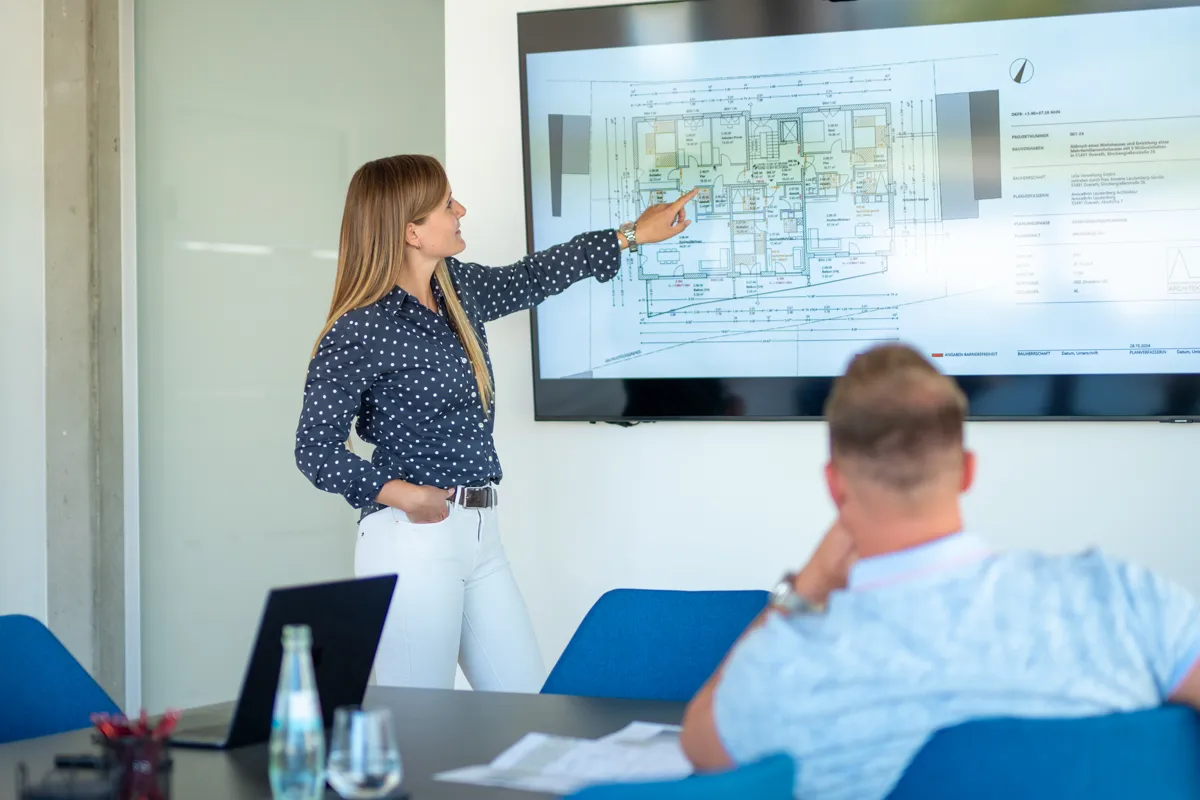
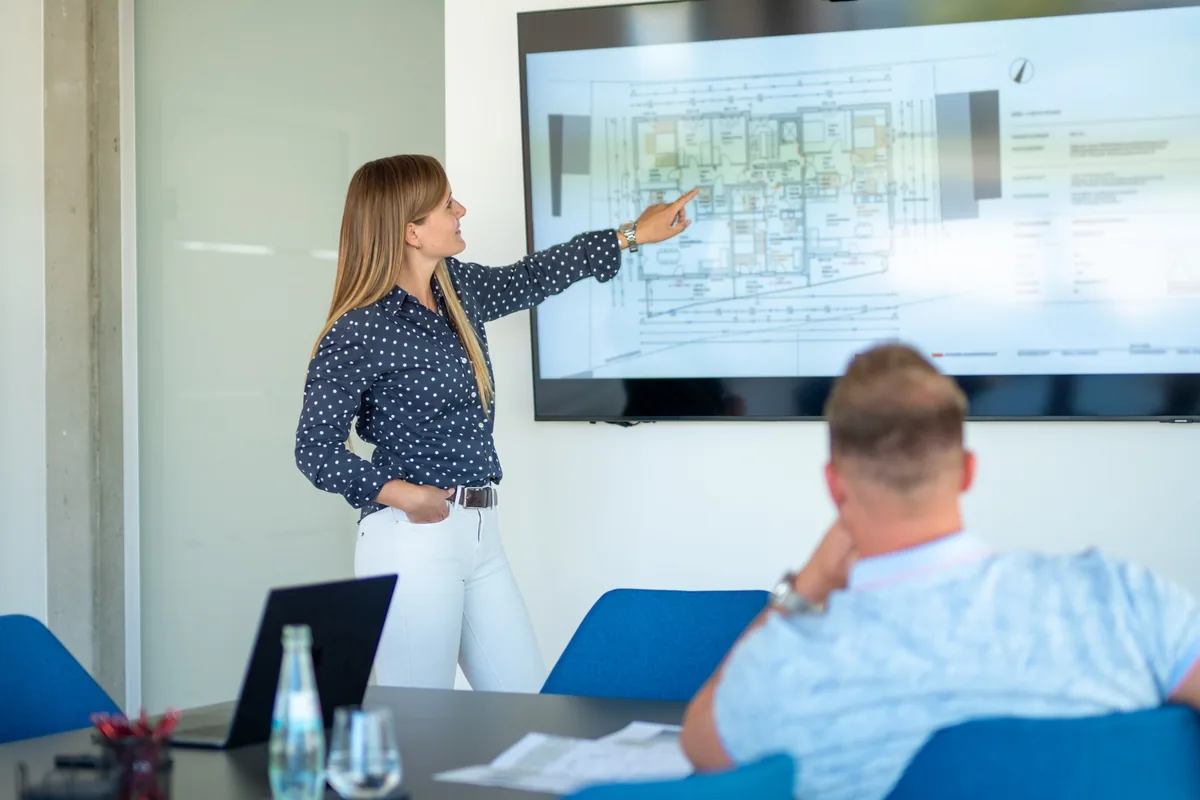
Neues Startseitenbild (DSC06257) und Philosophie-Foto aus Ordner bearbeitet
Claude-Session: https://claude.ai/code/session_01LuKGrNki79SgYhpAo6x8s3

Changed region(s): [[0.5858, 0.125, 0.6783, 0.375], [0.5242, 0.3125, 0.5858, 0.4062], [0.5242, 0.2188, 0.555, 0.25]]

diff --git a/buero.html b/buero.html
@@ -67,7 +67,7 @@
         </div>
       </article>
       <article class="orow orow--right" id="philosophie" aria-labelledby="philosophie-title">
-        <figure class="orow__img reveal-img"><img src="assets/img/anncathrin-laudenberg-portrait.webp" width="1200" height="1800" loading="lazy" alt="Porträt der Architektin Anncathrin Laudenberg im Büro" style="object-position:50% 20%"></figure>
+        <figure class="orow__img reveal-img"><img src="assets/img/philosophie-planbesprechung.webp" width="1200" height="1800" loading="lazy" alt="Anncathrin Laudenberg bespricht mit einem Bauherrn die ausgelegten Pläne am Tisch" style="object-position:50% 30%"></figure>
         <div class="orow__copy">
           <p class="orow__label">02 · Philosophie</p>
           <h2 id="philosophie-title">Architektur mit Anspruch. Wirtschaftlichkeit im Blick.</h2>

diff --git a/tools/content_leistungen.py b/tools/content_leistungen.py
@@ -63,7 +63,7 @@ OFFICE = [
      ['Gute Architektur bedeutet für mich mehr als eine ansprechende Gestaltung. Sie muss funktional durchdacht, wirtschaftlich sinnvoll und langfristig überzeugend sein.',
       'Jedes Grundstück und jedes Bauvorhaben bringt eigene Potenziale und Herausforderungen mit sich. Mein Anspruch ist es, diese frühzeitig zu erkennen und daraus individuelle, realisierbare Konzepte zu entwickeln. Dabei betrachte ich gestalterische, wirtschaftliche und planungsrechtliche Anforderungen nicht isoliert, sondern als Teil einer ganzheitlichen Planung.',
       'Denn Wirtschaftlichkeit und gute Architektur sind für mich kein Widerspruch, sondern die Grundlage einer erfolgreichen Projektentwicklung.'],
-     ('assets/img/anncathrin-laudenberg-portrait.webp', 1200, 1800, 'Porträt der Architektin Anncathrin Laudenberg im Büro', '50% 20%')),
+     ('assets/img/philosophie-planbesprechung.webp', 1200, 1800, 'Anncathrin Laudenberg bespricht mit einem Bauherrn die ausgelegten Pläne am Tisch', '50% 30%')),
     ('werdegang', '03 · Werdegang', 'Erfahrung als Fundament.',
      ['Nach meinem Masterabschluss 2021 an der FH Aachen war ich zunächst in einem Architekturbüro und anschließend in einem ganzheitlich aufgestellten Planungsbüro tätig. In dieser Zeit habe ich Projekte unterschiedlicher Größenordnungen in allen Leistungsphasen der HOAI begleitet, vom ersten Entwurf bis zur baulichen Umsetzung.',
       'Seit 2026 führe ich mein eigenes Architekturbüro. Meine bisherigen Erfahrungen bilden die Grundlage für eine vorausschauende und lösungsorientierte Planung. Durch meine Tätigkeit in den unterschiedlichen Projektphasen habe ich ein umfassendes Verständnis für die Zusammenhänge zwischen Entwurf, technischer Planung und baulicher Umsetzung entwickelt.',
